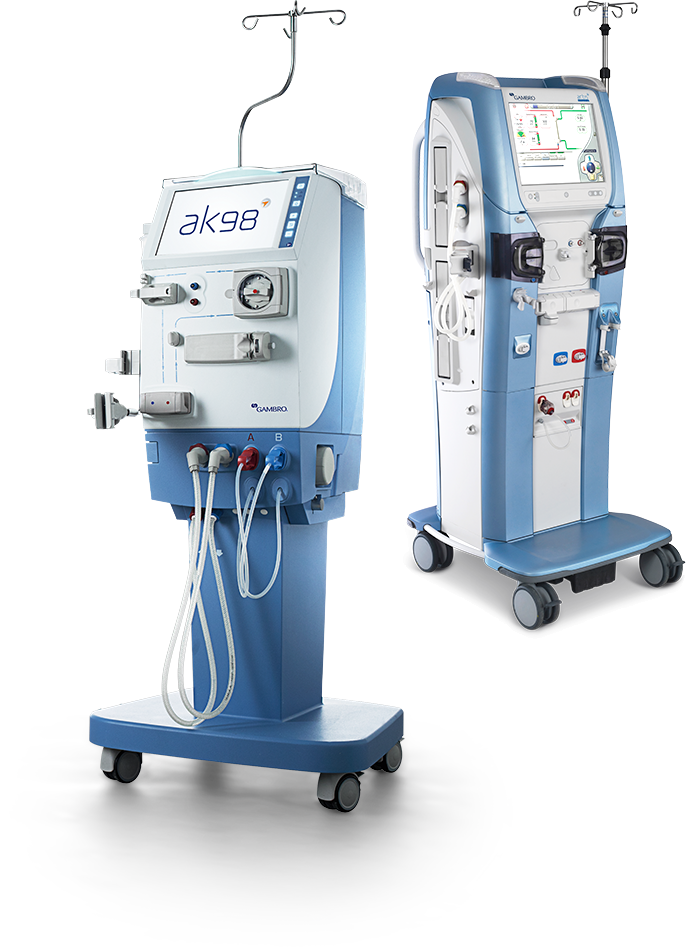
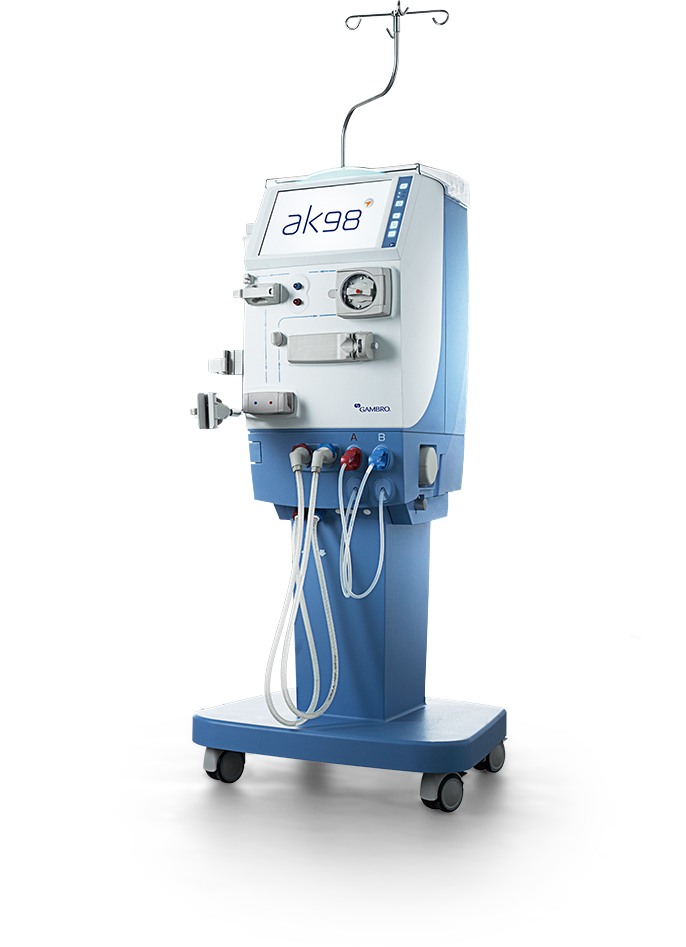
-Added a new HTML file for CWP 100. -Removed buttons and updated content in Bicart Cartridge. -Commented out CWP 800 and SoftPac on index.html which are subject for complete removal. -Changed button links that redirect to CWP 800 to CWP 100. -Removed Artis Physio system on Gambro AK 98. -Updated AK 

diff --git a/src/html/templates/partials/contents/slide-solution-bicart-cartridge.html b/src/html/templates/partials/contents/slide-solution-bicart-cartridge.html
@@ -10,14 +10,17 @@
       </h3>
     </div>
 
-    <img class="prop prop--image motion motion--slideInRight" src="img/presentation/elements/total-solutions-back-to-overview.png" alt="" width="253" data-pos="680,90">
-    <img class="prop prop--image motion motion--zoomIn" src="img/presentation/elements/btn-group-concentrates-2.png" alt="" width="433" data-pos="388,300">
+   <img class="prop prop--image motion motion--slideInRight" src="img/presentation/elements/total-solutions-back-to-overview.png" alt="" width="253" data-pos="680,90">
 
-    <div class="copy prop motion motion--slideInRight" data-pos="385,405">
+    <!--Subject for removal.
+    <img class="prop prop--image motion motion--zoomIn" src="img/presentation/elements/btn-group-concentrates-2.png" alt="" width="433" data-pos="388,300">
+    -->
+
+    <div class="copy prop motion motion--slideInRight" data-pos="385,315">
       <ul>
         <li>The convenience of bicarbonate powder</li>
         <li>Easy to use</li>
-        <li>The brand you can trust</li>
+        <li>The global leader in dry bicarbonate<br>concentrate cartridge for dialysis<br>for over 25 years</li>
       </ul>
     </div>
 
@@ -25,8 +28,12 @@
     <img class="prop prop--image motion motion--slideInLeft" src="img/presentation/elements/total-solutions-bicart-cartridge-photo.png" alt="" width="150" data-pos="145,292">
     <img class="prop prop--image" src="img/presentation/elements/btn-datasheet.png" alt="" width="133" data-pos="385,635">
 
+    <!--Subject for removal.
     <i class="btn btn-solution-1" data-pos="385,300" data-size="260,60" data-toggle="slideTo" data-target=".slide-solution-softpac-citrate"></i>
+    -->
+    
     <i class="btn btn-overview" data-pos="680,90" data-size="260,60" data-toggle="slideTo" data-target=".slide-total-solutions"></i>
+
     <a class="btn btn-link-datasheet" data-pos="385,635" data-size="130,45" href="VabletGeneral://openFileName/BiCart_Cartridge_1250_sales_sheet_A4_low-2?returnsToCallerOnClose=true"></a>
   </div>
 </div>

diff --git a/src/html/templates/partials/contents/slide-solution-cwp-100.html b/src/html/templates/partials/contents/slide-solution-cwp-100.html
@@ -1,0 +1,32 @@
+<div class="layer layer--01 active">
+  <img src="img/presentation/bg-solutions.jpg">
+  <div class="elements">
+    <div class="head head--products-overview motion motion--slideInDown">
+      <h2>
+        The GAMBRO<br><em>CWP 100 SYSTEM</em>
+      </h2>
+      <h3>
+        THE CWP 100 system provides heat disinfection with optimized running cost
+      </h3>
+    </div>
+
+    <img class="prop prop--image motion motion--slideInRight" src="img/presentation/elements/total-solutions-back-to-overview.png" alt="" width="253" data-pos="680,90">
+
+    <div class="copy prop motion motion--slideInRight" data-pos="385,315">
+      <ul>
+        <li>Automated heat disinfection<br>of the distribution loop</li>
+        <li>Fully enclosed central water plant</li>
+        <li>Chemical disinfection of the<br>RO membranes</li>
+      </ul>
+    </div>
+
+    <img class="prop prop--image motion motion--slideInLeft" src="img/presentation/elements/total-solutions-cwp-100-photo.png" alt="" width="286" data-pos="70,300">
+
+    <img class="prop prop--image" src="img/presentation/elements/btn-brochure.png" alt="" width="133" data-pos="385,635">
+    <img class="prop prop--image" src="img/presentation/elements/btn-datasheet.png" alt="" width="133" data-pos="525,635">
+
+    <i class="btn btn-overview" data-pos="680,90" data-size="260,60" data-toggle="slideTo" data-target=".slide-total-solutions"></i>
+    <a class="btn btn-link-brochure" data-pos="385,635" data-size="130,45" href="VabletGeneral://openFileName/CWP800_brochure_Global_A4_8p_low-2?returnsToCallerOnClose=true"></a>
+    <a class="btn btn-link-datasheet" data-pos="525,635" data-size="130,45" href="VabletGeneral://openFileName/CWP800_datasheet_A4_low-8?returnsToCallerOnClose=true"></a>
+  </div>
+</div>

diff --git a/src/html/templates/partials/contents/slide-solution-monitors.html b/src/html/templates/partials/contents/slide-solution-monitors.html
@@ -4,10 +4,10 @@
 
     <div class="head head--products-overview motion motion--slideInDown">
       <h2>
-        GAMBRO AK 98 AND<br><em>Artis Physio System</em>
+        THE GAMBRO<br> <em>AK 98</em>
       </h2>
       <h3>
-        The <b>AK 98</b> and <b>Artis Physio</b> dialysis system can run integrated <br>disinfection, and provide history of the disinfection process
+        The <b>AK 98</b> dialysis system can run integrated <br>disinfection, and provide history of the disinfection process
       </h3>
     </div>
 
@@ -23,10 +23,17 @@
 
     <img class="prop prop--image motion motion--slideInLeft" src="img/presentation/elements/total-solutions-monitors-photo.png" alt="" width="343" data-pos="25,300">
     <img class="prop prop--image" src="img/presentation/elements/btn-brochure-ak98.png" alt="" width="183" data-pos="385,635">
+
+    <!--Subject for removal.
     <img class="prop prop--image" src="img/presentation/elements/btn-brochure-artis.png" alt="" width="245" data-pos="575,635">
+    -->
 
     <i class="btn btn-overview" data-pos="680,90" data-size="260,60" data-toggle="slideTo" data-target=".slide-total-solutions"></i>
     <a class="btn btn-link-brochure" data-pos="385,635" data-size="177,45" href="VabletGeneral://openFileName/AK98_brochure_16p_A4_Master_low?returnsToCallerOnClose=true"></a>
+
+    <!--
     <a class="btn btn-link-brochure" data-pos="575,635" data-size="238,45" href="VabletGeneral://openFileName/Artis_Physio_brochure_16p_A4_low-3?returnsToCallerOnClose=true"></a>
+    -->
+
   </div>
 </div>

diff --git a/src/html/templates/partials/contents/slide-total-solutions.html b/src/html/templates/partials/contents/slide-total-solutions.html
@@ -15,10 +15,10 @@
     <img class="prop prop--image motion motion--rotateIn" src="img/presentation/elements/total-solutions-circle-center.png" alt="" width="195" data-pos="415,350">
 
 
-    <i class="btn btn-solution-1" data-pos="140,345" data-size="168,84" data-toggle="slideTo" data-target=".slide-solution-softpac-citrate"></i>
+    <i class="btn btn-solution-1" data-pos="140,345" data-size="168,84" data-toggle="slideTo" data-target=".slide-solution-bicart-cartridge"></i>
     <i class="btn btn-solution-2" data-pos="140,450" data-size="140,65" data-toggle="slideTo" data-target=".slide-solution-ultrafilter"></i>
     <i class="btn btn-solution-3" data-pos="140,520" data-size="150,85" data-toggle="slideTo" data-target=".slide-solution-cleancart"></i>
     <i class="btn btn-solution-4" data-pos="660,200" data-size="160,105" data-toggle="slideTo" data-target=".slide-solution-monitors"></i>
-    <i class="btn btn-solution-4" data-pos="665,550" data-size="165,80" data-toggle="slideTo" data-target=".slide-solution-cwp-800"></i>
+    <i class="btn btn-solution-4" data-pos="665,550" data-size="165,80" data-toggle="slideTo" data-target=".slide-solution-cwp-100"></i>
   </div>
 </div>

diff --git a/src/html/pages/index.html b/src/html/pages/index.html
@@ -58,18 +58,28 @@
         "htmlContent" : "slide-total-solutions.html",
         "hash" : "totalSolutions"
       })
+
+      @@include('../templates/partials/slide.html',{
+        "addClass" : "slide-solution-cwp-100",
+        "htmlContent" : "slide-solution-cwp-100.html",
+        "hash" : "solutionCwp100"
+      })
+
+<!-- Subject for replacement.
       @@include('../templates/partials/slide.html',{
         "addClass" : "slide-solution-cwp-800",
         "htmlContent" : "slide-solution-cwp-800.html",
         "hash" : "solutionCwp800"
       })
+-->
 
+<!-- Subject for removal.
       @@include('../templates/partials/slide.html',{
         "addClass" : "slide-solution-softpac-citrate",
         "htmlContent" : "slide-solution-softpac-citrate.html",
         "hash" : "solutionSoftpacCitrate"
       })
-
+-->
       @@include('../templates/partials/slide.html',{
         "addClass" : "slide-solution-bicart-cartridge",
         "htmlContent" : "slide-solution-bicart-cartridge.html",
